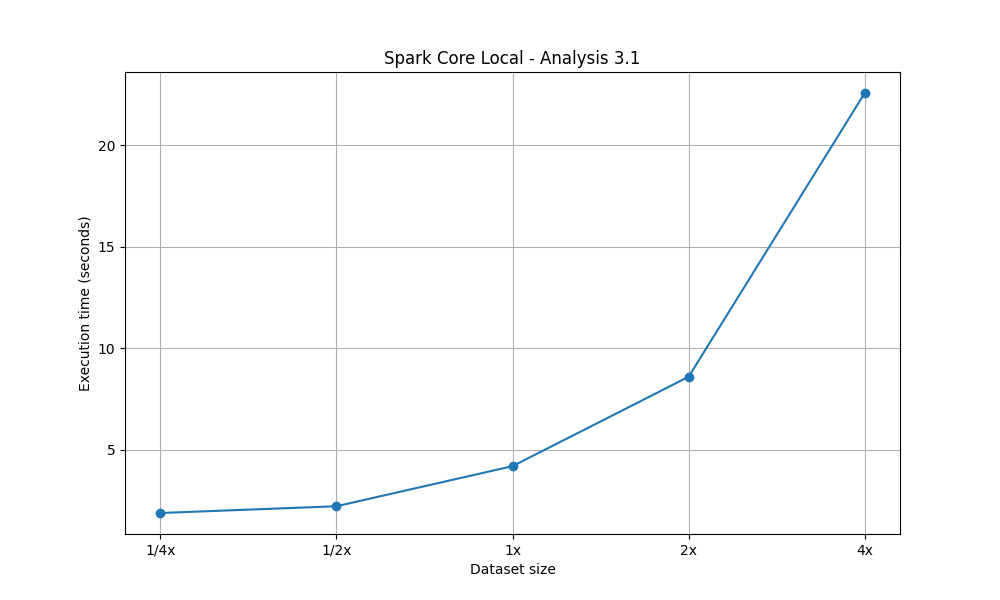
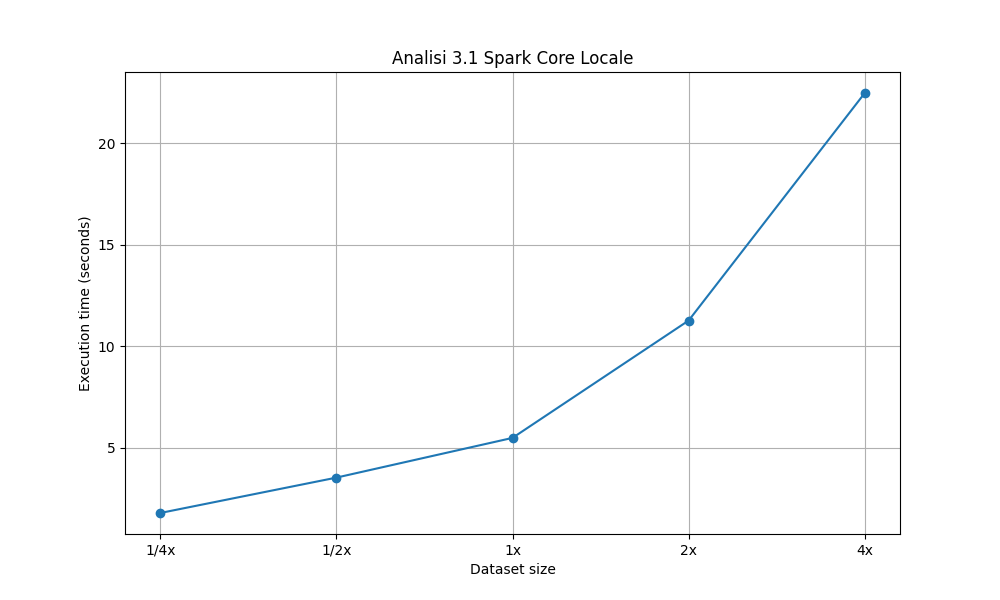
spark sql analysis 3.1

diff --git a/main.py b/main.py
@@ -1,6 +1,7 @@
 import pandas as pd
 import analysis
-import spark_analysis
+import spark_core_analysis
+import spark_sql_analysis
 from pathlib import Path
 import utils
 import plot
@@ -54,53 +55,97 @@ if not Path(file_analysis_3_1).exists():
     utils.generate_scaled_datasets(file_analysis_3_1)
 
 # creazione della sessione Spark
-spark = spark_analysis.create_session()
+spark = spark_core_analysis.create_session()
 
 # Analisi 3.1 con SPARK CORE in LOCALE
 
 # file 1/4x
-timer_3_1_quarter = spark_analysis.local_analysis(
+timer_spark_3_1_quarter = spark_core_analysis.local_analysis(
     spark,
     "files/analisi_3_1_quarter.csv"
 )
-
-print("Analisi 3.1 con grandezza 1/4x completata")
+print("Analisi 3.1 SPARK CORE locale con grandezza 1/4x completata")
 
 # file 1/2x
-timer_3_1_half = spark_analysis.local_analysis(
+timer_spark_3_1_half = spark_core_analysis.local_analysis(
     spark,
     "files/analisi_3_1_half.csv"
 )
-
-print("Analisi 3.1 con grandezza 1/2x completata")
+print("Analisi 3.1 SPARK CORE locale con grandezza 1/2x completata")
 
 # file 1x
-timer_3_1_normal = spark_analysis.local_analysis(
+timer_spark_3_1_normal = spark_core_analysis.local_analysis(
     spark,
     file_analysis_3_1
 )
-
-print("Analisi 3.1 completata")
+print("Analisi 3.1 SPARK CORE locale completata")
 
 # file 2x
-timer_3_1_double = spark_analysis.local_analysis(
+timer_spark_3_1_double = spark_core_analysis.local_analysis(
     spark,
     "files/analisi_3_1_double.csv"
 )
-
-print("Analisi 3.1 con grandezza 2x completata")
-
+print("Analisi 3.1 SPARK CORE locale con grandezza 2x completata")
 # file 4x
-timer_3_1_quadruple = spark_analysis.local_analysis(
+timer_spark_3_1_quadruple = spark_core_analysis.local_analysis(
     spark,
     "files/analisi_3_1_quadruple.csv"
 )
+print("Analisi 3.1 SPARK CORE locale con grandezza 4x completata")
 
-print("Analisi 3.1 con grandezza 4x completata")
+
+plot.plot_analisi_3_1(timer_spark_3_1_quarter, timer_spark_3_1_half, timer_spark_3_1_normal, timer_spark_3_1_double, timer_spark_3_1_quadruple, "Analisi 3.1 Spark Core Locale", "output/spark_core_local_analysis_3_1.png")
+
+# Analisi 3.1 con SPARK CORE in CLUSTER
+# TODO
+
+
+
+
+# Analisi 3.1 con SPARK SQL in LOCALE
+
+# file 1/4x
+timer_spark_sql_3_1_quarter = spark_sql_analysis.local_analysis(
+    spark,
+    "files/analisi_3_1_quarter.csv"
+)
+print("Analisi 3.1 SPARK SQL locale con grandezza 1/4x completata")
+
+# file 1/2x
+timer_spark_sql_3_1_half = spark_sql_analysis.local_analysis(
+    spark,
+    "files/analisi_3_1_half.csv"
+)
+print("Analisi 3.1 SPARK SQL locale con grandezza 1/2x completata")
+
+# file 1x
+timer_spark_sql_3_1_normal = spark_sql_analysis.local_analysis(
+    spark,
+    file_analysis_3_1
+)
+print("Analisi 3.1 SPARK SQL locale completata")
+
+# file 2x
+timer_spark_sql_3_1_double = spark_sql_analysis.local_analysis(
+    spark,
+    "files/analisi_3_1_double.csv"
+)
+print("Analisi 3.1 SPARK SQL locale con grandezza 2x completata")
+
+# file 4x
+timer_spark_sql_3_1_quadruple = spark_sql_analysis.local_analysis(
+    spark,
+    "files/analisi_3_1_quadruple.csv"
+)
+print("Analisi 3.1 SPARK SQL locale con grandezza 4x completata")
+
+
+plot.plot_analisi_3_1(timer_spark_sql_3_1_quarter, timer_spark_sql_3_1_half, timer_spark_sql_3_1_normal, timer_spark_sql_3_1_double, timer_spark_sql_3_1_quadruple, "Analisi 3.1 Spark SQL Locale", "output/spark_sql_local_analysis_3_1.png")
+
+# Analisi 3.1 con SPARK SQL in CLUSTER
+# TODO
+
+
 
 # Chiusura Spark session
 spark.stop()
-
-plot.plot_analisi_3_1(timer_3_1_quarter, timer_3_1_half, timer_3_1_normal, timer_3_1_double, timer_3_1_quadruple)
-
-# Analisi 3.1 con SPARK CORE in CLUSTER

diff --git a/spark_sql_analysis.py b/spark_sql_analysis.py
@@ -1,0 +1,82 @@
+from pyspark.sql import SparkSession
+from pyspark.sql.functions import *
+import utils
+from pathlib import Path
+import time
+
+
+# creazione Sessione Spark
+def create_session():
+    return SparkSession.builder \
+    .appName("FlightAnalysis") \
+    .master("local[*]") \
+    .config("spark.hadoop.fs.defaultFS", "file:///") \
+    .getOrCreate()
+
+
+# SPARK SQL: LOCALE
+def local_analysis(spark, filepath):
+
+    spark_df = spark.read.csv(
+        filepath,
+        header=True,
+        inferSchema=True
+    )
+
+    # Controllo
+    # spark_df.show(10)
+    # spark_df.printSchema()
+
+
+    # trasformazione della colonna arr_delay: se il valore è negativo viene portato a 0
+    spark_df = spark_df \
+        .withColumn("arr_delay", greatest(col("arr_delay"), lit(0))) \
+        .withColumn("dep_delay", greatest(col("dep_delay"), lit(0)))
+
+    # creazione vista temporanea SQL
+    spark_df.createOrReplaceTempView("flights")
+
+    start_time = time.time()
+
+    result_3_1 = spark.sql("""
+        SELECT
+            op_unique_carrier,
+            origin,
+
+            COUNT(*) AS num_flights,
+
+            MIN(arr_delay) AS min_arr_delay,
+
+            MAX(arr_delay) AS max_arr_delay,
+
+            AVG(arr_delay) AS avg_arr_delay,
+
+            SUM(cancelled) / COUNT(*) AS cancellation_rate,
+
+            COLLECT_SET(month) AS months_active
+
+        FROM flights
+
+        GROUP BY
+            op_unique_carrier,
+            origin
+    """)
+
+    result_3_1.collect()
+
+    end_time = time.time()
+
+    execution_time = end_time - start_time
+
+    # stampa e salvataggio del risultato
+    output = result_3_1._jdf.showString(20, 0, False)
+
+    print(output)
+    print(f"\nExecution time: {execution_time:.2f} seconds")
+
+    utils.append_to_log(
+        "Risultati SPARK SQL analisi 3.1 sul file " + Path(filepath).stem,
+        output + f"\n\nExecution time: {execution_time:.2f} seconds"
+    )
+
+    return execution_time

diff --git a/plot.py b/plot.py
@@ -1,7 +1,7 @@
 import matplotlib.pyplot as plt
 
 
-def plot_analisi_3_1(timer_3_1_quarter, timer_3_1_half, timer_3_1_normal, timer_3_1_double, timer_3_1_quadruple):
+def plot_analisi_3_1(timer_3_1_quarter, timer_3_1_half, timer_3_1_normal, timer_3_1_double, timer_3_1_quadruple, name, path):
     # dimensioni dataset
     dataset_sizes = [
         "1/4x",
@@ -34,13 +34,10 @@ def plot_analisi_3_1(timer_3_1_quarter, timer_3_1_half, timer_3_1_normal, timer_
     plt.ylabel("Execution time (seconds)")
 
     # titolo
-    plt.title("Spark Core Local - Analysis 3.1")
+    plt.title(name)
 
     # griglia
     plt.grid(True)
 
     # salvataggio
-    plt.savefig("output/spark_core_local_analysis_3_1.png")
-
-    # visualizzazione
-    plt.show()
+    plt.savefig(path)